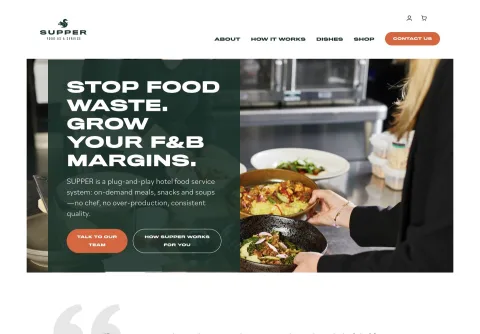
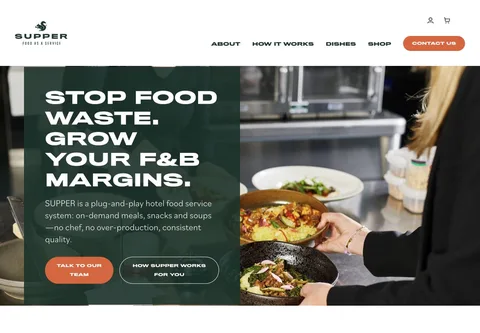
Maak homepage visueel consistent: projectbeelden, quotes en contactblok
- Even projecten (Mike's) krijgen dezelfde grote screenshot als de oneven, gespiegeld
- Supper-screenshot opnieuw bijgesneden zonder witranden en halve quote-tekens
- Quotes overal gelijk: vaste regelbreedte, gelijke marges, onderstreepte bronlinks
- Quote in contactpaneel erft geen telefoonnummer-stijl meer (naam normaal, bron leesbaar)
- Geen dubbele lijn onder de laatste case van een sectie; contactpaneel bovenaan uitgelijnd
- styles.css cache-versie v56

Claude-Session: https://claude.ai/code/session_01Qbe9w5H8jmbH7M197WRLuK

diff --git a/styles.css b/styles.css
@@ -670,6 +670,12 @@ main section[id] {
   border-bottom: 1px solid var(--line);
 }
 
+@media (min-width: 901px) {
+  .work-item:nth-of-type(even) {
+    grid-template-columns: minmax(300px, 0.76fr) minmax(0, 1.14fr);
+  }
+}
+
 .work-item:nth-of-type(even) .work-shot {
   grid-column: 2;
   grid-row: 1;
@@ -786,6 +792,11 @@ main section[id] {
 
 .work-item:hover .work-link span {
   transform: translateX(5px);
+}
+
+.work-section > .work-list:last-child > .work-item:last-child {
+  border-bottom: 0;
+  padding-bottom: 0;
 }
 
 .work-more {
@@ -1351,6 +1362,7 @@ main section[id] {
 }
 
 .case-testimonial blockquote {
+  max-width: 34em;
   margin: 0 0 24px;
   font-size: clamp(1.18rem, 2vw, 1.48rem);
   line-height: 1.38;
@@ -1366,6 +1378,47 @@ main section[id] {
   margin-top: 3px;
   color: rgba(255, 255, 255, 0.62);
   font-size: 0.88rem;
+}
+
+.case-testimonial-person a {
+  color: inherit;
+  text-decoration: underline;
+  text-decoration-color: rgba(255, 255, 255, 0.3);
+  text-underline-offset: 0.2em;
+}
+
+.work-list > .case-testimonial,
+.work-list + .case-testimonial {
+  max-width: var(--site-max);
+  margin: clamp(36px, 5vw, 56px) auto;
+}
+
+.contact-section > .contact-panel {
+  align-self: start;
+}
+
+/* Quote inside the contact panel keeps the standard quote styling. */
+.contact-panel .case-testimonial {
+  margin: 0 0 8px;
+}
+
+.contact-panel .case-testimonial-person strong {
+  margin: 0;
+  color: var(--white);
+  font-size: 1rem;
+  line-height: 1.4;
+}
+
+.contact-panel .case-testimonial-person span {
+  margin-top: 3px;
+  color: rgba(255, 255, 255, 0.62);
+  font-size: 0.88rem;
+}
+
+.contact-panel .case-testimonial-person a {
+  display: inline;
+  padding: 0;
+  border: 0;
 }
 
 .case-actions {

diff --git a/digitale-opname/vergelijken/index.html b/digitale-opname/vergelijken/index.html
@@ -30,7 +30,7 @@
     <link rel="icon" href="/favicon-32.png?v=20260714" sizes="32x32" type="image/png">
     <link rel="shortcut icon" href="/favicon.ico?v=20260714" type="image/x-icon">
     <link rel="apple-touch-icon" href="/apple-touch-icon.png?v=20260714">
-    <link rel="stylesheet" href="../../styles.css?v=55">
+    <link rel="stylesheet" href="../../styles.css?v=56">
     <link rel="stylesheet" href="../digitale-opname.css?v=4">
   </head>
   <body class="project-page opname-page opname-compare-page">

diff --git a/digitale-opname/index.html b/digitale-opname/index.html
@@ -31,7 +31,7 @@
     <link rel="icon" href="/favicon-32.png?v=20260714" sizes="32x32" type="image/png">
     <link rel="shortcut icon" href="/favicon.ico?v=20260714" type="image/x-icon">
     <link rel="apple-touch-icon" href="/apple-touch-icon.png?v=20260714">
-    <link rel="stylesheet" href="../styles.css?v=55">
+    <link rel="stylesheet" href="../styles.css?v=56">
     <link rel="stylesheet" href="digitale-opname.css?v=4">
       <script type="application/ld+json">
       {

diff --git a/blog/excel-als-bedrijfssysteem-mkb.html b/blog/excel-als-bedrijfssysteem-mkb.html
@@ -26,7 +26,7 @@
     <link rel="icon" href="/favicon-32.png?v=20260714" sizes="32x32" type="image/png">
     <link rel="shortcut icon" href="/favicon.ico?v=20260714" type="image/x-icon">
     <link rel="apple-touch-icon" href="/apple-touch-icon.png?v=20260714">
-    <link rel="stylesheet" href="/styles.css?v=55">
+    <link rel="stylesheet" href="/styles.css?v=56">
     <link rel="stylesheet" href="/digitale-opname/digitale-opname.css?v=4">
     <style>
       .article-hero {

diff --git a/blog/hoeveel-tijd-kost-een-vooropname-installatiebedrijf.html b/blog/hoeveel-tijd-kost-een-vooropname-installatiebedrijf.html
@@ -26,7 +26,7 @@
     <link rel="icon" href="/favicon-32.png?v=20260714" sizes="32x32" type="image/png">
     <link rel="shortcut icon" href="/favicon.ico?v=20260714" type="image/x-icon">
     <link rel="apple-touch-icon" href="/apple-touch-icon.png?v=20260714">
-    <link rel="stylesheet" href="/styles.css?v=55">
+    <link rel="stylesheet" href="/styles.css?v=56">
     <link rel="stylesheet" href="/digitale-opname/digitale-opname.css?v=4">
     <style>
       .article-hero {

diff --git a/blog/monteur-krijgt-klus-via-whatsapp-mkb.html b/blog/monteur-krijgt-klus-via-whatsapp-mkb.html
@@ -26,7 +26,7 @@
     <link rel="icon" href="/favicon-32.png?v=20260714" sizes="32x32" type="image/png">
     <link rel="shortcut icon" href="/favicon.ico?v=20260714" type="image/x-icon">
     <link rel="apple-touch-icon" href="/apple-touch-icon.png?v=20260714">
-    <link rel="stylesheet" href="/styles.css?v=55">
+    <link rel="stylesheet" href="/styles.css?v=56">
     <link rel="stylesheet" href="/digitale-opname/digitale-opname.css?v=4">
     <style>
       .article-hero {

diff --git a/blog/offerteproces-automatiseren-zonder-chaos.html b/blog/offerteproces-automatiseren-zonder-chaos.html
@@ -26,7 +26,7 @@
     <link rel="icon" href="/favicon-32.png?v=20260714" sizes="32x32" type="image/png">
     <link rel="shortcut icon" href="/favicon.ico?v=20260714" type="image/x-icon">
     <link rel="apple-touch-icon" href="/apple-touch-icon.png?v=20260714">
-    <link rel="stylesheet" href="/styles.css?v=55">
+    <link rel="stylesheet" href="/styles.css?v=56">
     <link rel="stylesheet" href="/digitale-opname/digitale-opname.css?v=4">
     <style>
       .article-hero {

diff --git a/blog/waarom-typt-iemand-dit-nog-over-mkb.html b/blog/waarom-typt-iemand-dit-nog-over-mkb.html
@@ -26,7 +26,7 @@
     <link rel="icon" href="/favicon-32.png?v=20260714" sizes="32x32" type="image/png">
     <link rel="shortcut icon" href="/favicon.ico?v=20260714" type="image/x-icon">
     <link rel="apple-touch-icon" href="/apple-touch-icon.png?v=20260714">
-    <link rel="stylesheet" href="/styles.css?v=55">
+    <link rel="stylesheet" href="/styles.css?v=56">
     <link rel="stylesheet" href="/digitale-opname/digitale-opname.css?v=4">
     <style>
       .article-hero {

diff --git a/blog/wordpress-website-verbeteren-of-opnieuw-laten-maken.html b/blog/wordpress-website-verbeteren-of-opnieuw-laten-maken.html
@@ -26,7 +26,7 @@
     <link rel="icon" href="/favicon-32.png?v=20260714" sizes="32x32" type="image/png">
     <link rel="shortcut icon" href="/favicon.ico?v=20260714" type="image/x-icon">
     <link rel="apple-touch-icon" href="/apple-touch-icon.png?v=20260714">
-    <link rel="stylesheet" href="/styles.css?v=55">
+    <link rel="stylesheet" href="/styles.css?v=56">
     <link rel="stylesheet" href="/digitale-opname/digitale-opname.css?v=4">
     <style>
       .article-hero {

diff --git a/ai/index.html b/ai/index.html
@@ -31,7 +31,7 @@
     <link rel="icon" href="/favicon-32.png?v=20260714" sizes="32x32" type="image/png">
     <link rel="shortcut icon" href="/favicon.ico?v=20260714" type="image/x-icon">
     <link rel="apple-touch-icon" href="/apple-touch-icon.png?v=20260714">
-    <link rel="stylesheet" href="../styles.css?v=55">
+    <link rel="stylesheet" href="../styles.css?v=56">
   </head>
   <body class="project-page ai-page">
     <header class="site-header">

diff --git a/projecten/archipel-bouwadvies/index.html b/projecten/archipel-bouwadvies/index.html
@@ -85,7 +85,7 @@
     <link rel="icon" href="/favicon-32.png?v=20260714" sizes="32x32" type="image/png">
     <link rel="shortcut icon" href="/favicon.ico?v=20260714" type="image/x-icon">
     <link rel="apple-touch-icon" href="/apple-touch-icon.png?v=20260714">
-    <link rel="stylesheet" href="../../styles.css?v=55">
+    <link rel="stylesheet" href="../../styles.css?v=56">
   </head>
   <body class="project-page">
     <header class="site-header">

diff --git a/projecten/ec-eens/index.html b/projecten/ec-eens/index.html
@@ -87,7 +87,7 @@
     <link rel="icon" href="/favicon-32.png?v=20260714" sizes="32x32" type="image/png">
     <link rel="shortcut icon" href="/favicon.ico?v=20260714" type="image/x-icon">
     <link rel="apple-touch-icon" href="/apple-touch-icon.png?v=20260714">
-    <link rel="stylesheet" href="../../styles.css?v=55">
+    <link rel="stylesheet" href="../../styles.css?v=56">
   </head>
   <body class="project-page">
     <header class="site-header">
